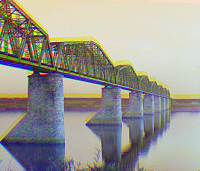
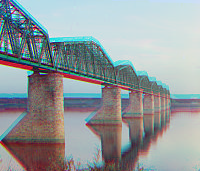
fin?
calculado el tiempo que tarda cada fase

diff --git a/lab2/lab2.py b/lab2/lab2.py
@@ -5,6 +5,8 @@
 import os
 # Hello! Welcome to the computer vision LAB.
 import itertools
+import time
+
 import cv2
 import numpy as np
 from scipy import signal
@@ -16,29 +18,47 @@ from PIL import ImageChops
 from matplotlib import pyplot as plt
 
 
+def splitImagen(image):
+    # TODO. SEPARO LA IMAGEN EN TRES COMPONENTES
+    height, width = image.shape
+    tercera_parte = height // 3  # Si le pongo los dos divisores lo que hago es que pille el int entero y no el float
+    B = image[:tercera_parte, :]
+    G = image[tercera_parte:tercera_parte * 2, :]
+    R = image[tercera_parte * 2:, :]
+
+    # TODO. REESTRUCTURO LAS IMAGENES PARA QUE TODAS TENGAN EL MISMO TAMAÑO PARA CUANDO LAS TENGA QUE FUSIONAR
+    height1, width1 = R.shape
+    height2, width2 = G.shape
+    height3, width3 = B.shape
+
+    height_img = min(height1, height2, height3)
+    R = R[-height_img:, :]
+    G = G[-height_img:, :]
+    B = B[-height_img:, :]
+
+    # TODO. RECORTO UN PORCENTAJE LOS BORDES DE LA IMAGEN PARA EVITAR PROBLEMAS
+    rec_height = int(height_img * 0.1)
+    rec_width = int(width1 * 0.1)
+    R = R[rec_height:-rec_height, rec_width:-rec_width]
+    G = G[rec_height:-rec_height, rec_width:-rec_width]
+    B = B[rec_height:-rec_height, rec_width:-rec_width]
+
+    return R, G, B
+
+
+def moveImage(image, center, movement):
+    # TODO. CALCULO EL MOVIMIENTO A REALIZAR
+    shift = [movement[0] - center.shape[0] // 2, movement[1] - center.shape[1] // 2] # Calculamos el movimiento a realizar
+
+    # TODO. MUEVO CADA MATRIZ A LA POSICIÓN QUE LE TOQUE
+    M = np.float32([[1, 0, shift[0]], [0, 1, shift[1]]]) # Matriz de translación
+    return cv2.warpAffine(image, M, (width_fin, height_fin)) # Devolvemos la imagen movida
+
+
 def correlacion_cruzada(matriz1, matriz2): # La correlación debería ser lo mismo que la convolución con la máscara rotada 180 grados pero la función correlate2d() ya se encarga de ello
     # Calcular la correlación cruzada
     corr = signal.correlate2d(matriz2, matriz1, mode='same') # Tienen que ser al revés en G se usa R como máscara
     # plt.imshow(corr)
-    # plt.show()
-    # Crea una figura 3D
-    """fig = plt.figure()
-    ax = fig.add_subplot(111, projection='3d')
-    # Crea las coordenadas X e Y para la matriz
-    x, y = np.meshgrid(np.arange(corr.shape[0]), np.arange(corr.shape[1]))
-    # Aplana la matriz y convierte los valores en una lista
-    z = corr.flatten()
-    # Crea una barra de color para los valores de la matriz
-    colores = plt.cm.jet(z / np.amax(z))
-    # Dibuja la matriz en 3D
-    ax.bar3d(x.ravel(), y.ravel(), np.zeros_like(z), 1, 1, z, color=colores)
-    # Configura los límites de los ejes
-    ax.set_xlim(0, corr.shape[0])
-    ax.set_ylim(0, corr.shape[1])
-    ax.set_zlim(0, np.amax(z))
-    # Muestra la figura
-    path = './outputs/zz-01_Correlacio.png'
-    plt.savefig(path)"""
     # plt.show()
     # conv = signal.convolve2d(matriz2, np.flip(np.flip(matriz1, 0), 1))
     # Encontrar todos los valores máximos
@@ -137,6 +157,7 @@ def fourier_transform(máscara, imagen): # En Fourier una convolución o correla
 
     return shape
 
+
 def fourier_norm(máscara, imagen): # En Fourier una convolución o correlación tenemos que transformar las señales a fourier, multiplicarlas y seguidamente hacer la trnsformada inversa
     # Calcular la correlación cruzada
     fft_mask = np.fft.fft2(máscara)
@@ -182,89 +203,75 @@ for imagen in files:
     image = skimage.io.imread(path, as_gray=False)
     image = image.astype(np.float32)/255
     # image = skimage.io.imread('peppers.png', as_gray=False)
-
-    # TODO. SEPARO LA IMAGEN EN TRES COMPONENTES
-    height, width = image.shape
-    tercera_parte = height // 3  # Si le pongo los dos divisores lo que hago es que pille el int entero y no el float
-    B = image[:tercera_parte, :]
-    G = image[tercera_parte:tercera_parte * 2, :]
-    R = image[tercera_parte * 2:, :]
-
-    # TODO. REESTRUCTURO LAS IMAGENES PARA QUE TODAS TENGAN EL MISMO TAMAÑO PARA CUANDO LAS TENGA QUE FUSIONAR
-    height1, width1 = R.shape
-    height2, width2 = G.shape
-    height3, width3 = B.shape
-
-    height_img = min(height1, height2, height3)
-    R = R[-height_img:, :]
-    G = G[-height_img:, :]
-    B = B[-height_img:, :]
-
-    # TODO. RECORTO UN PORCENTAJE LOS BORDES DE LA IMAGEN PARA EVITAR PROBLEMAS
-    rec_height = int(height_img * 0.1)
-    rec_width = int(width1 * 0.1)
-    R = R[rec_height:-rec_height, rec_width:-rec_width]
-    G = G[rec_height:-rec_height, rec_width:-rec_width]
-    B = B[rec_height:-rec_height, rec_width:-rec_width]
+    start_time = time.time()
+    R, G, B = splitImagen(image)
+    end_recort = time.time() - start_time
+    print('Tiempo recorte imagen = ', end_recort)
 
     height_fin, width_fin = R.shape
 
     # TODO. BUSCO EL PUNTO CON MAYOR CORRELACIÓN EL CUAL ESTÉ MÁS CERCA DEL CENTRO DE LA MATRIZ
+    corr_time = time.time()
     corr_rg = correlacion_cruzada(R, G)
     corr_rb = correlacion_cruzada(R, B)
+    corr_time = time.time() - corr_time
+    print('Tiempo correlación = ', corr_time)
 
+    corr_norm_time = time.time()
     corr_rg_norm = normxcorr2(R, G)
     corr_rb_norm = normxcorr2(R, B)
+    corr_norm_time = time.time() - corr_norm_time
+    print('Tiempo correlación normalizada = ', corr_norm_time)
 
+    fft_time = time.time()
     fft_rg = fourier_transform(R, G)
     fft_rb = fourier_transform(R, B)
+    fft_time = time.time() - fft_time
+    print('Tiempo FFT = ', fft_time)
 
+    fft_norm_time = time.time()
     fft_rg_norm = fourier_transform(R, G)
     fft_rb_norm = fourier_transform(R, B)
+    fft_norm_time = time.time() - fft_norm_time
+    print('Tiempo FFT Norm (Fase) = ', fft_norm_time, '\n')
 
+    # TODO Desplazamos los canales G y B de cada imagen y calculamos cuanto timepo tardan
 
-    # TODO. MUEVO CADA MATRIZ A LA POSICIÓN QUE LE TOQUE
+    # TODO. CORR
+    corr_time_recort = time.time()
 
-    # Calculamos cuánto tenemos que desplazar los canales G y B Im1 -> (85, 100)
-    shift_g = [corr_rg[0] - R.shape[0] // 2, corr_rg[1] - R.shape[1] // 2]
-    shift_b = [corr_rb[0] - R.shape[0] // 2, corr_rb[1] - R.shape[1] // 2]
+    g_shifted = moveImage(G, R, corr_rg)
+    b_shifted = moveImage(B, R, corr_rb)
 
-    shift_g_norm = [corr_rg_norm[0] - R.shape[0] // 2, corr_rg_norm[1] - R.shape[1] // 2]
-    shift_b_norm = [corr_rb_norm[0] - R.shape[0] // 2, corr_rb_norm[1] - R.shape[1] // 2]
+    corr_time_recort = time.time() - corr_time_recort
+    print('Tiempo mover correlación = ', corr_time_recort)
 
-    shift_fft_rg = [fft_rg[0] - R.shape[0] // 2, fft_rg[1] - R.shape[1] // 2]
-    shift_fft_rb = [fft_rb[0] - R.shape[0] // 2, fft_rb[1] - R.shape[1] // 2]
+    # TODO. CORR NORM
+    corr_norm_time_recort = time.time()
 
-    shift_fft_rg_norm = [fft_rg_norm[0] - R.shape[0] // 2, fft_rg_norm[1] - R.shape[1] // 2]
-    shift_fft_rb_norm = [fft_rb_norm[0] - R.shape[0] // 2, fft_rb_norm[1] - R.shape[1] // 2]
+    g_shifted_norm = moveImage(G, R, corr_rg_norm)
+    b_shifted_norm = moveImage(B, R, corr_rb_norm)
 
-    # TODO Desplazamos los canales G
-   
-    M = np.float32([[1, 0, shift_g[0]], [0, 1, shift_g[1]]])
-    g_shifted = cv2.warpAffine(G, M, (width_fin, height_fin))
-    
-    M = np.float32([[1, 0, shift_g_norm[0]], [0, 1, shift_g_norm[1]]])
-    g_shifted_norm = cv2.warpAffine(G, M, (width_fin, height_fin))
+    corr_norm_time_recort = time.time() - corr_norm_time_recort
+    print('Tiempo mover correlación normalizada = ', corr_norm_time_recort)
 
-    M = np.float32([[1, 0, shift_fft_rg[0]], [0, 1, shift_fft_rg[1]]])
-    g_shifted_fft = cv2.warpAffine(G, M, (width_fin, height_fin))
+    # TODO. FFT
+    fft_time_recort = time.time()
 
-    M = np.float32([[1, 0, shift_fft_rg_norm[0]], [0, 1, shift_fft_rg_norm[1]]])
-    g_shifted_fft_norm = cv2.warpAffine(G, M, (width_fin, height_fin))
+    g_shifted_fft = moveImage(G, R, fft_rg)
+    b_shifted_fft = moveImage(B, R, fft_rb)
 
-    # TODO Desplazamos los canales b
-    
-    M = np.float32([[1, 0, shift_b[0]],[0, 1, shift_b[1]]])
-    b_shifted = cv2.warpAffine(B,M, (width_fin, height_fin))
-    
-    M = np.float32([[1, 0, shift_b_norm[0]],[0, 1, shift_b_norm[1]]])
-    b_shifted_norm = cv2.warpAffine(B,M, (width_fin, height_fin))
+    fft_time_recort = time.time() - fft_time_recort
+    print('Tiempo mover FFT = ', fft_time_recort)
 
-    M = np.float32([[1, 0, shift_fft_rb[0]], [0, 1, shift_fft_rb[1]]])
-    b_shifted_fft = cv2.warpAffine(B, M, (width_fin, height_fin))
+    # TODO. FFT NORM
+    fft_norm_time_recort = time.time()
 
-    M = np.float32([[1, 0, shift_fft_rb_norm[0]], [0, 1, shift_fft_rb_norm[1]]])
-    b_shifted_fft_norm = cv2.warpAffine(B, M, (width_fin, height_fin))
+    g_shifted_fft_norm = moveImage(G, R, fft_rg_norm)
+    b_shifted_fft_norm = moveImage(B, R, corr_rb_norm)
+
+    fft_norm_time_recort = time.time() - fft_norm_time_recort
+    print('Tiempo mover FFT normalizada (Fase) = ', fft_norm_time_recort)
 
     # Juntamos los tres canales en una sola imagen
     #plt.figure('R')
@@ -275,33 +282,43 @@ for imagen in files:
     #plt.imshow(b_shifted)
 
     # TODO. MOSTRAMOS LAS IMAGENES QUE HEMOS ACABADO DE FORMAR
+    time_save = time.time()
+
     plt.figure('Inicial')
     rgb_img = np.dstack((R, G, B))
-    # path = './outputs/ ' + str(i) +'_01_inicial_color.png'
+    path = './outputs/ ' + str(i) +'_01_inicial_color.png'
     plt.imshow(rgb_img)
-    # plt.imsave(path, rgb_img)
+    plt.imsave(path, rgb_img)
+
     plt.figure('Correlació')
     rgb_corr = np.dstack((R, g_shifted, b_shifted))
-    # path = './outputs/ ' + str(i) +'_02__correlacio_color.png'
+    path = './outputs/ ' + str(i) +'_02__correlacio_color.png'
     plt.imshow(rgb_corr)
-    # plt.imsave(path, rgb_corr)
+    plt.imsave(path, rgb_corr)
+
     plt.figure('Correlació Normalitzada')
     rgb_corr_norm = np.dstack((R, g_shifted_norm, b_shifted_norm))
-    # path = './outputs/ ' + str(i) +'_03__correlacio_norm_color.png'
+    path = './outputs/ ' + str(i) +'_03__correlacio_norm_color.png'
     plt.imshow(rgb_corr_norm)
-    # plt.imsave(path, rgb_corr_norm)
+    plt.imsave(path, rgb_corr_norm)
+
     plt.figure('Transformada Fourier')
     rgb_fft = np.dstack((R, g_shifted_fft, b_shifted_fft))
-    # path = './outputs/ ' + str(i) +'_04__fft_color.png'
+    path = './outputs/ ' + str(i) +'_04__fft_color.png'
     plt.imshow(rgb_fft)
-    # plt.imsave(path, rgb_fft)
+    plt.imsave(path, rgb_fft)
+
     plt.figure('Transformada Fourier Normalitzada')
     rgb_fft_norm = np.dstack((R, g_shifted_fft_norm, b_shifted_fft_norm))
-    # path = './outputs/ ' + str(i) +'_05__fft_norm_color.png'
+    path = './outputs/ ' + str(i) +'_05__fft_norm_color.png'
     plt.imshow(rgb_fft_norm)
-    # plt.imsave(path, rgb_fft_norm)
-    plt.show()
+    plt.imsave(path, rgb_fft_norm)
+
+    time_save = time.time() - time_save
+    print('Tiempo para guardar las cuatro imágenes nuevas de ', imagen, ' = ', time_save)
+    #plt.show()
     i += 1
+    break
 
     # TODO TEST
     """matriz = np.random.randint(0, 255, size=(height_fin, width_fin))
